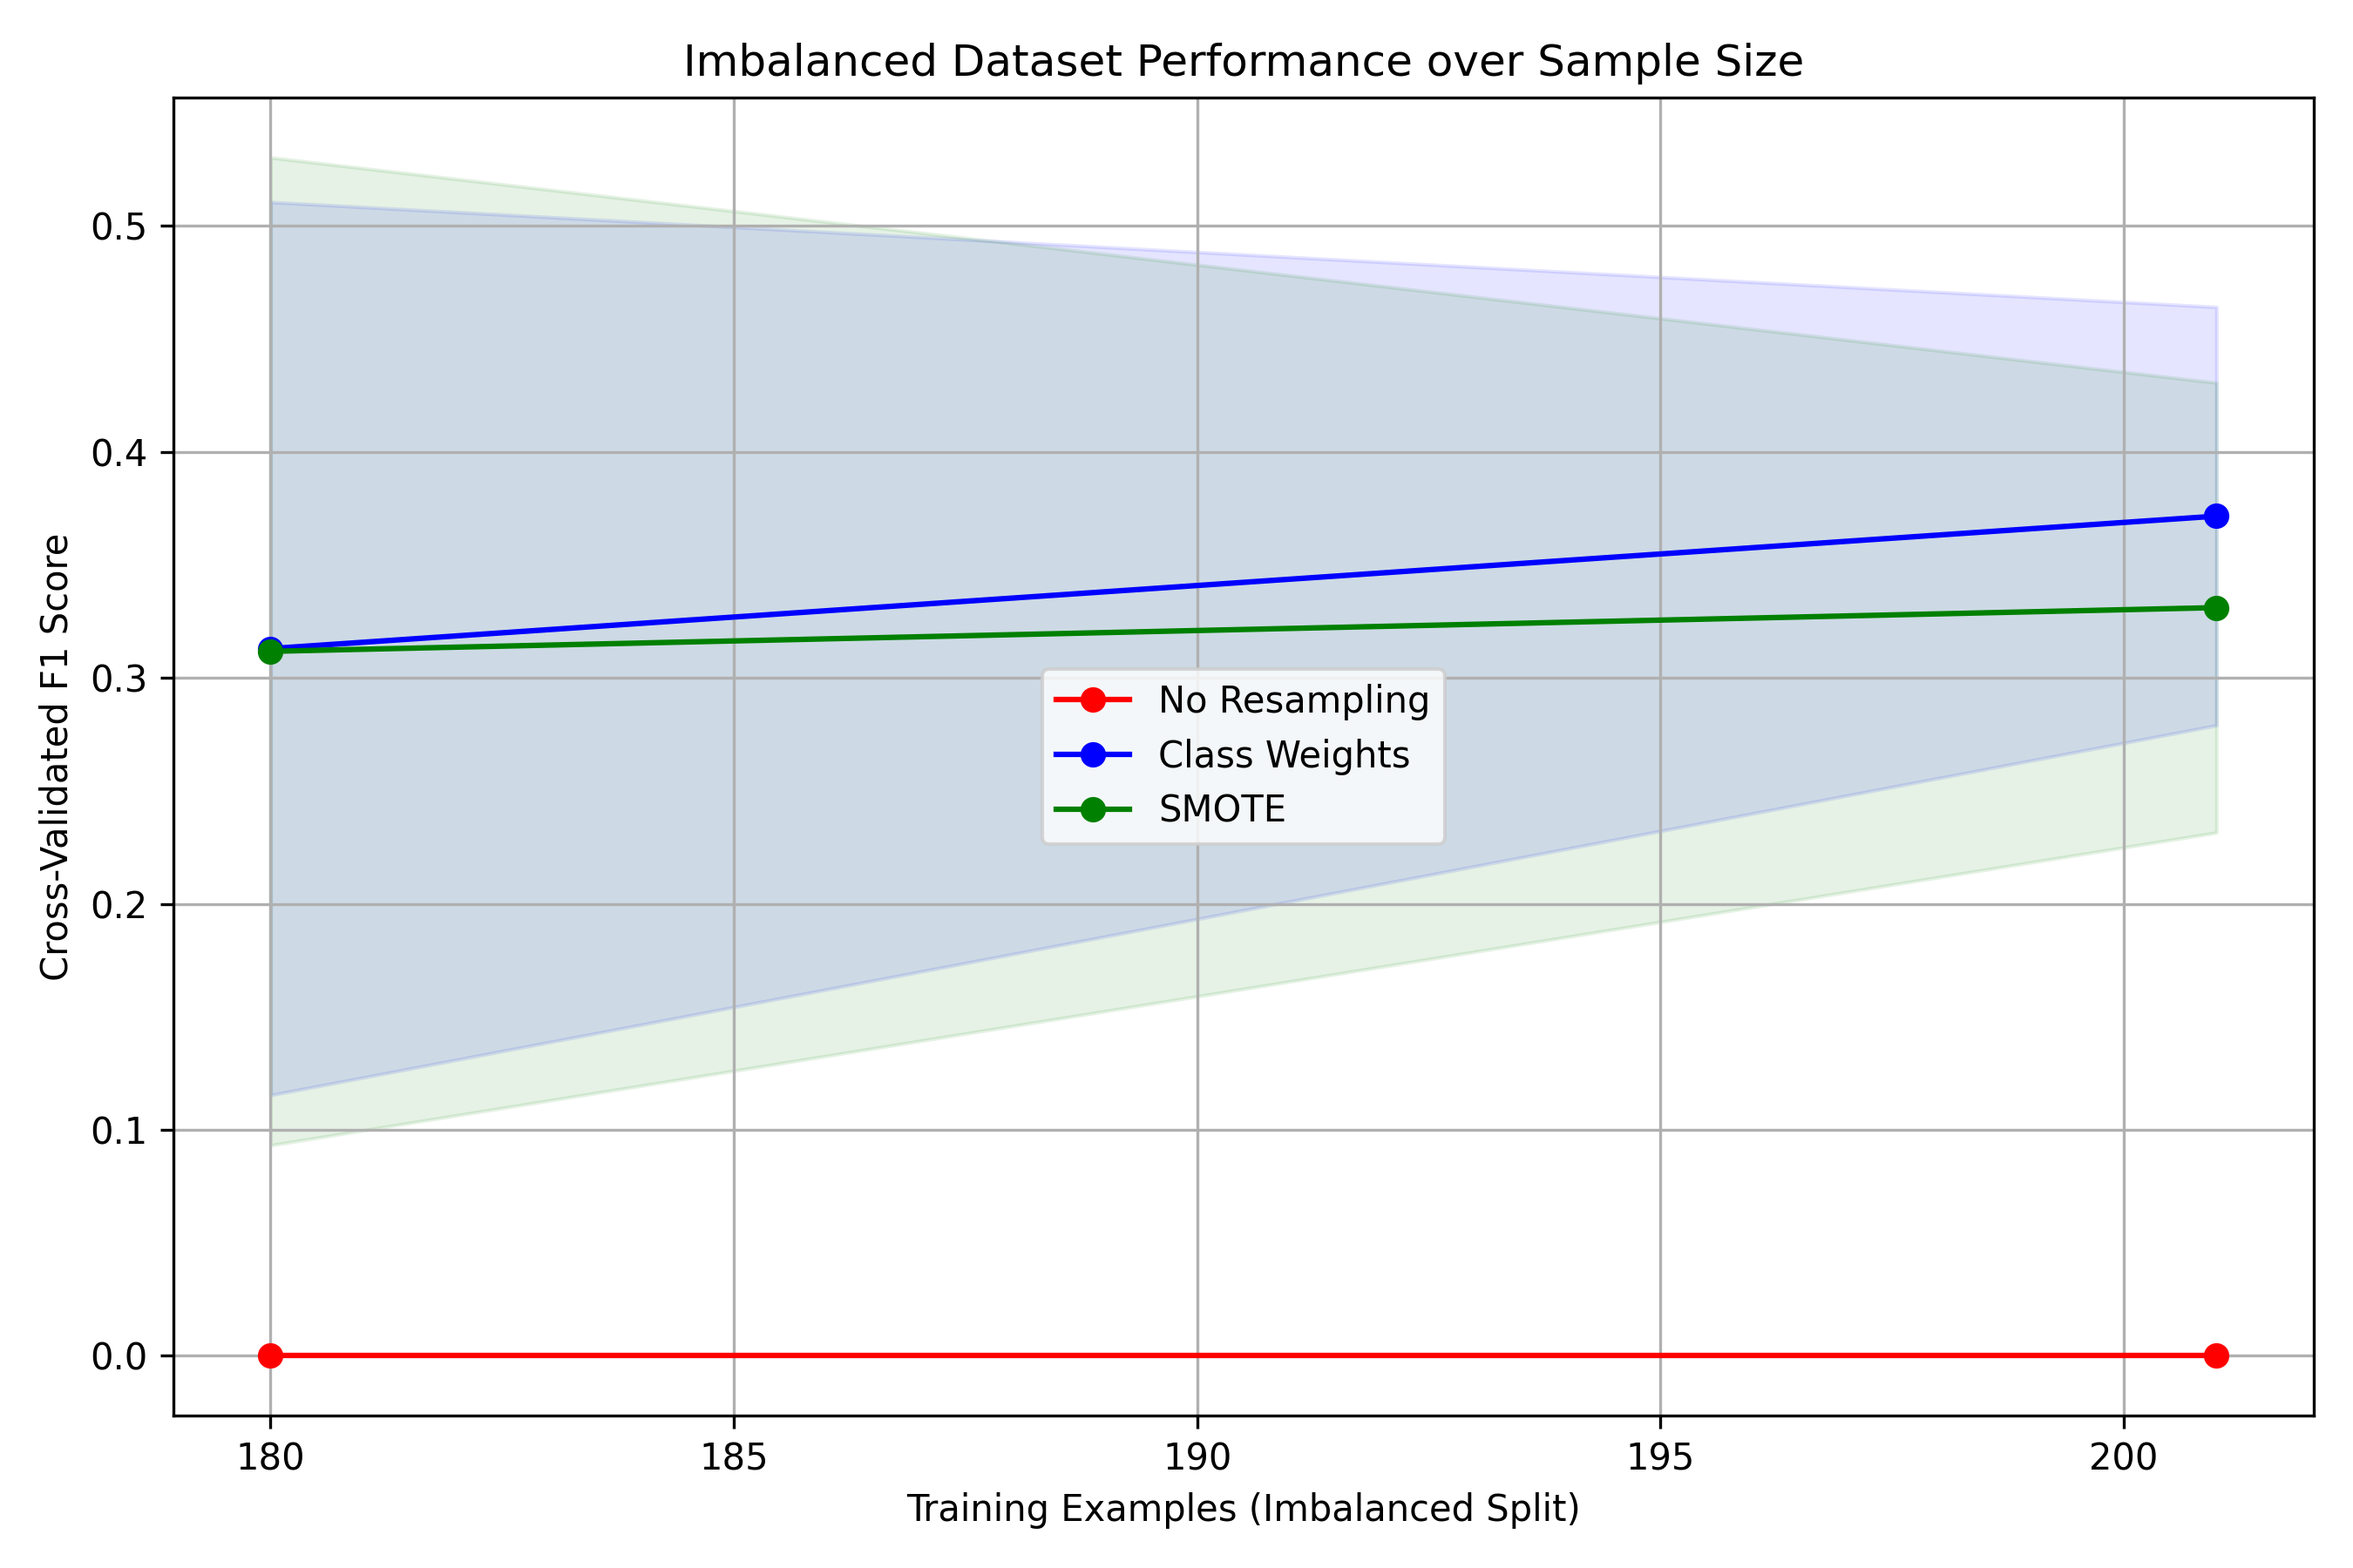
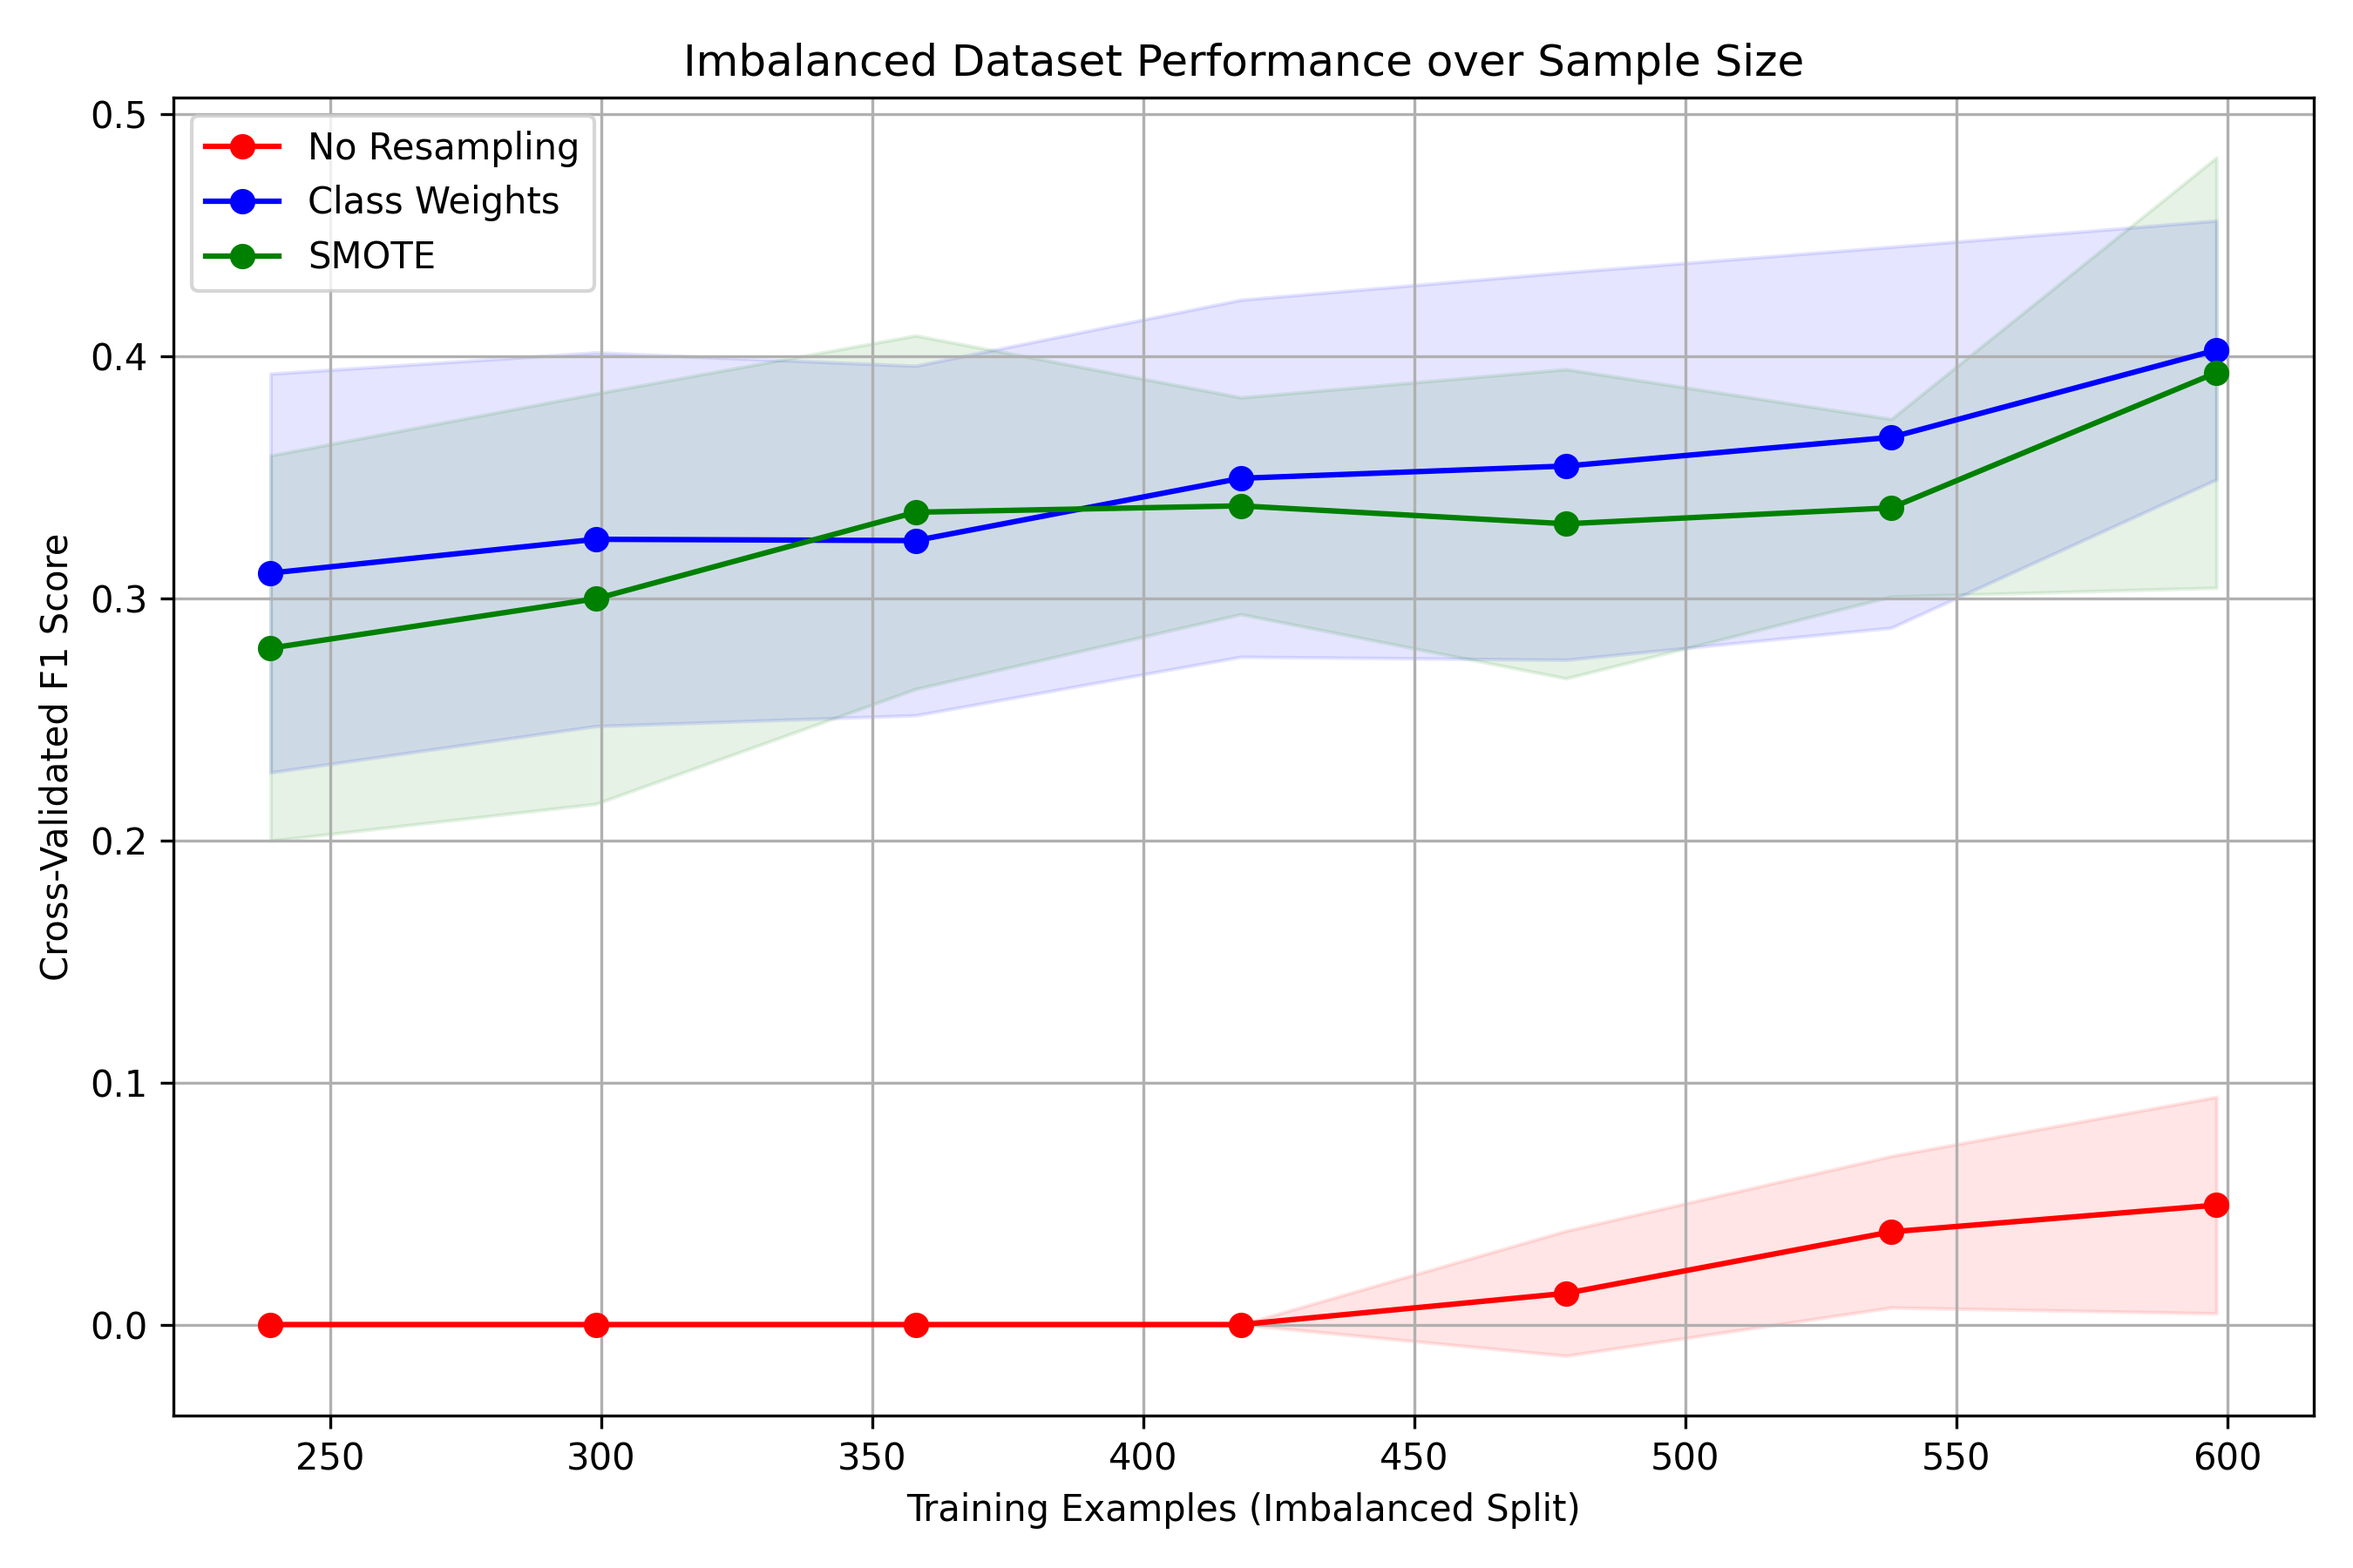
clean

diff --git a/Report_Draft.tex b/Report_Draft.tex
@@ -20,8 +20,8 @@
     frame=single
 }
 
-\title{AI Capstone Project \#1: LLM Router Dataset Report}
-\author{蕭至恆 413551034}
+\title{NYCU AI HW\#1: LLM Router Dataset Report}
+\author{Chih-Heng Hsiao 413551034}
 \date{\today}
 
 \begin{document}
@@ -57,8 +57,8 @@ The dataset consists of \textbf{800 text-based queries} paired with strictly eva
 \subsection{External Sources and Manual Collection Process}
 This dataset mimics real-world interaction logs and is composed of queries adapted from open-source domains. General knowledge and reasoning questions were pseudo-randomly sampled from real-world question-answering databases \textbf{SQuAD} and \textbf{HotpotQA}.
 
-\textit{Data Collection \& Generation Methodology:}
-To assemble this dataset while complying with the homework constraint of creating a novel classification challenge, I strictly utilized programmatic web-scraping methodologies. First, a Python script randomly isolated queries directly from the SQuAD (Stanford Question Answering Dataset) and HotpotQA sets into an unlabeled CSV pool locally. To enforce strict objective labeling, I utilized zero-shot prompting via the OpenAI GPT-4o API, systematically evaluating all 800 instances by delineating whether the question logically required relating independent entities or finding an intermediate fact before arriving at the final conclusion (`large`), or if it was a basic zero-reasoning factoid (`small`).
+\textit{Data Collection, Cleanup \& Generation Methodology:}
+To assemble this dataset while complying with the homework constraint of creating a novel classification challenge, I strictly utilized programmatic web-scraping methodologies. First, a Python script randomly isolated queries directly from the SQuAD (Stanford Question Answering Dataset) and HotpotQA sets into an unlabeled CSV pool locally. To enforce strict objective labeling and **perform necessary data cleanup**, I utilized zero-shot prompting via the OpenAI GPT-4o API. The LLM systematically evaluated the strings, filtering out structurally broken or unanswerable queries (dropping nulls and invalid formats). This automated cleanup ensured the 800 final instances were pristine, delineating whether the question logically required relating independent entities or finding an intermediate fact before arriving at the final conclusion (`large`), or if it was a basic zero-reasoning factoid (`small`).
 
 \subsection{Dataset Characteristics \& Constraints}
 \begin{itemize}
@@ -163,8 +163,13 @@ Given our dataset distribution ($\sim$75\% large / $\sim$25\% small), we built r
 \hline
 Train\_Size\_Pct & No Resampling\_F1 & Class Weights\_F1 & SMOTE\_F1 \\
 \hline
-0.9000 & 0.0000 & 0.3129 & 0.3117 \\
-1.0000 & 0.0000 & 0.3716 & 0.3311 \\
+0.4000 & 0.0000 & 0.3104 & 0.2794 \\
+0.5000 & 0.0000 & 0.3244 & 0.2998 \\
+0.6000 & 0.0000 & 0.3238 & 0.3355 \\
+0.7000 & 0.0000 & 0.3496 & 0.3382 \\
+0.8000 & 0.0129 & 0.3546 & 0.3307 \\
+0.9000 & 0.0383 & 0.3665 & 0.3374 \\
+1.0000 & 0.0493 & 0.4025 & 0.3932 \\
 \hline
 \end{tabular}
 \end{table}

diff --git a/run_experiments.py b/run_experiments.py
@@ -148,16 +148,21 @@ def main():
     if SMOTE is None:
         print("imbalanced-learn not installed, skipping Exp 3.")
     else:
-        idx_small = np.where(y == 0)[0]
-        idx_large = np.where(y == 1)[0]
+        idx_small = np.where(y == 0)[0] # 202 samples
+        idx_large = np.where(y == 1)[0] # 598 samples
         np.random.seed(42)
-        # Assuming we have enough data (e.g. 50 out of ~400)
-        num_minority = min(50, len(idx_large))
-        idx_large_sub = np.random.choice(idx_large, size=num_minority, replace=False)
-        idx_imbalanced = np.concatenate((idx_small, idx_large_sub))
+        
+        # To fix the NaN sampling issue, we scale up the total capacity
+        # We use all 598 "large" samples as the majority class.
+        # We sample 150 "small" samples as the minority class (~80/20 split).
+        idx_small_sub = np.random.choice(idx_small, size=min(150, len(idx_small)), replace=False)
+        idx_imbalanced = np.concatenate((idx_large, idx_small_sub))
+        np.random.shuffle(idx_imbalanced)
         
         X_imb = X_bert[idx_imbalanced]
-        y_imb = y[idx_imbalanced]
+        # Invert the original arrays (1->0, 0->1) inside this experiment 
+        # so that the 'small' class (the minority) correctly registers as 'Target=1' for sklearn's F1 calc.
+        y_imb = 1 - y[idx_imbalanced]
         
         pipeline_unbal = Pipeline([('clf', LogisticRegression(random_state=42, max_iter=1000))])
         pipeline_cw = Pipeline([('clf', LogisticRegression(random_state=42, max_iter=1000, class_weight='balanced'))])

diff --git a/latex_tables.tex b/latex_tables.tex
@@ -44,13 +44,13 @@ Train_Size_Pct & BERT_F1 & TF-IDF_F1 & BERT + PCA_F1 & TF-IDF + PCA_F1 \\
 \hline
 Train_Size_Pct & No Resampling_F1 & Class Weights_F1 & SMOTE_F1 \\
 \hline
-0.4000 & NaN & NaN & NaN \\
-0.5000 & NaN & NaN & NaN \\
-0.6000 & NaN & NaN & NaN \\
-0.7000 & NaN & NaN & NaN \\
-0.8000 & NaN & NaN & NaN \\
-0.9000 & 0.0000 & 0.3129 & 0.3117 \\
-1.0000 & 0.0000 & 0.3716 & 0.3311 \\
+0.4000 & 0.0000 & 0.3104 & 0.2794 \\
+0.5000 & 0.0000 & 0.3244 & 0.2998 \\
+0.6000 & 0.0000 & 0.3238 & 0.3355 \\
+0.7000 & 0.0000 & 0.3496 & 0.3382 \\
+0.8000 & 0.0129 & 0.3546 & 0.3307 \\
+0.9000 & 0.0383 & 0.3665 & 0.3374 \\
+1.0000 & 0.0493 & 0.4025 & 0.3932 \\
 \hline
 \end{tabular}
 \end{table}

diff --git a/README.md b/README.md
@@ -1,1 +1,86 @@
-# NYCU_AI_HW1
+# AI Capstone Project #1: LLM Router Dataset 
+
+**Author:** 蕭至恆 (413551034)
+**Repository:** [https://github.com/CH-Joshua-Hsiao/NYCU_AI_HW1](https://github.com/CH-Joshua-Hsiao/NYCU_AI_HW1)
+
+## Overview
+As modern applications increasingly integrate Large Language Models (LLMs), routing user queries to the appropriate model has become a critical challenge. Invoking a massive, highly-capable LLM for every request is computationally expensive and incurs unnecessary latency.
+
+This repository features the dataset and classification pipelines designed to train an efficient **"LLM Router."** It is a lightweight, supervised classifier capable of distinguishing between simple queries (low-reasoning, factual, brief) and complex queries (multi-step, reasoning-heavy).
+
+By successfully classifying incoming query complexity natively, inference costs can be drastically optimized.
+
+---
+
+## Project Structure
+The repository heavily leverages autonomous scripting. The system systematically samples native internet texts, classifies them strictly via zero-shot prompts leveraging OpenAI's GPT-4o, and ultimately tests embeddings inside Scikit-Learn.
+
+- `fetch_real_queries.py`: Samples 800 unique queries directly from the Hugging Face `SQuAD` and `HotpotQA` databases.
+- `llm_labeling.py`: Leverages `openai` constraints to programmatically classify the 800 inputs as `small` (trivia/simple fact) or `large` (multi-hop relational logic).
+- `run_experiments.py`: Generates machine-learning performance evaluations utilizing Scikit-Learn pipelines tracking BERT Embeddings (`sentence-transformers`) and TF-IDF matrix overlaps.
+- `error_analysis.py`: (Optional) Extracts out-of-fold predictions to evaluate False Positive / False Negative distributions.
+- `Report_Draft.tex / .pdf`: Comprehensive final documentation containing learning curves, imbalance validations, and PCA boundaries.
+
+---
+
+## Setup & Installation
+
+**Prerequisites:** Python 3.11+
+
+1. **Clone the repository:**
+   ```bash
+   git clone https://github.com/CH-Joshua-Hsiao/NYCU_AI_HW1.git
+   cd NYCU_AI_HW1
+   ```
+
+2. **Install Dependencies:**
+   ```bash
+   pip install pandas numpy scikit-learn matplotlib seaborn sentence-transformers datasets openai imbalanced-learn
+   ```
+
+3. **Set OpenAI API Key (Required for Labeling Script):**
+   ```bash
+   # Windows (CMD)
+   set OPENAI_API_KEY=your_api_key_here
+   
+   # Windows (PowerShell)
+   $env:OPENAI_API_KEY="your_api_key_here"
+   
+   # Linux / macOS
+   export OPENAI_API_KEY="your_api_key_here"
+   ```
+
+---
+
+## Execution Guide
+
+### 1. Generating the Dataset
+To pull fresh, randomized samples from SQuAD and HotpotQA:
+```bash
+python fetch_real_queries.py
+```
+> *Outputs:* `unlabeled_dataset.csv`
+
+### 2. LLM Labeling
+To pass the collected data through GPT-4o for strict multi-hop evaluations:
+```bash
+python llm_labeling.py
+```
+> *Outputs:* `llm_relabeled_data_large.csv`
+
+### 3. Running Classifiers & Experiments
+Executes a heavy cross-validation testing pipeline exploring Logistic Regressions over Classical NLP (TF-IDF) vs Deep-Learning Transforms (BERT / `all-MiniLM-L6-v2`). Runs all sub-experiments (Sizing impact, SMOTE tracking, PCA limitations):
+```bash
+python run_experiments.py
+```
+> *Outputs:* 
+> - Numerical CSVs: (`experiment_1_metrics.csv`, `experiment_2_learning_curves.csv`, `experiment_3_imbalance.csv`)
+> - Graphic Analysis: (`confusion_matrices.png`, `learning_curve.png`, `imbalance_results.png`, `pca_results.png`)
+> - LaTeX Formats: `latex_tables.tex`
+
+---
+
+## Results Snapshot
+The real-world constraints showcased that true human natural language is profoundly difficult to isolate by raw word counts alone. While TF-IDF marginally won F1-Scores mathematically, the dense BERT mapping demonstrated higher ROC-AUC margin separability thresholds across logical sentence structures! 
+
+*(For a full deep-dive into semantic vector compressions, dataset imbalances, and synthetic SMOTE recoveries, please compile the included `Report_Draft.tex`)*.
